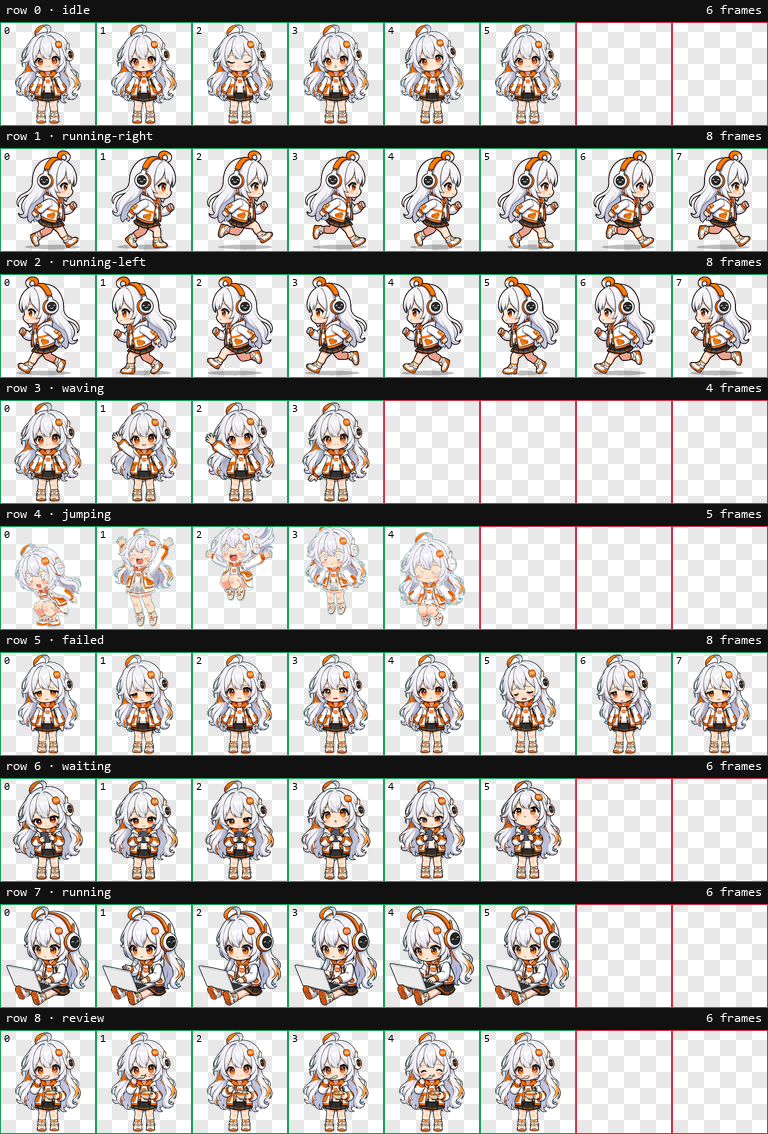
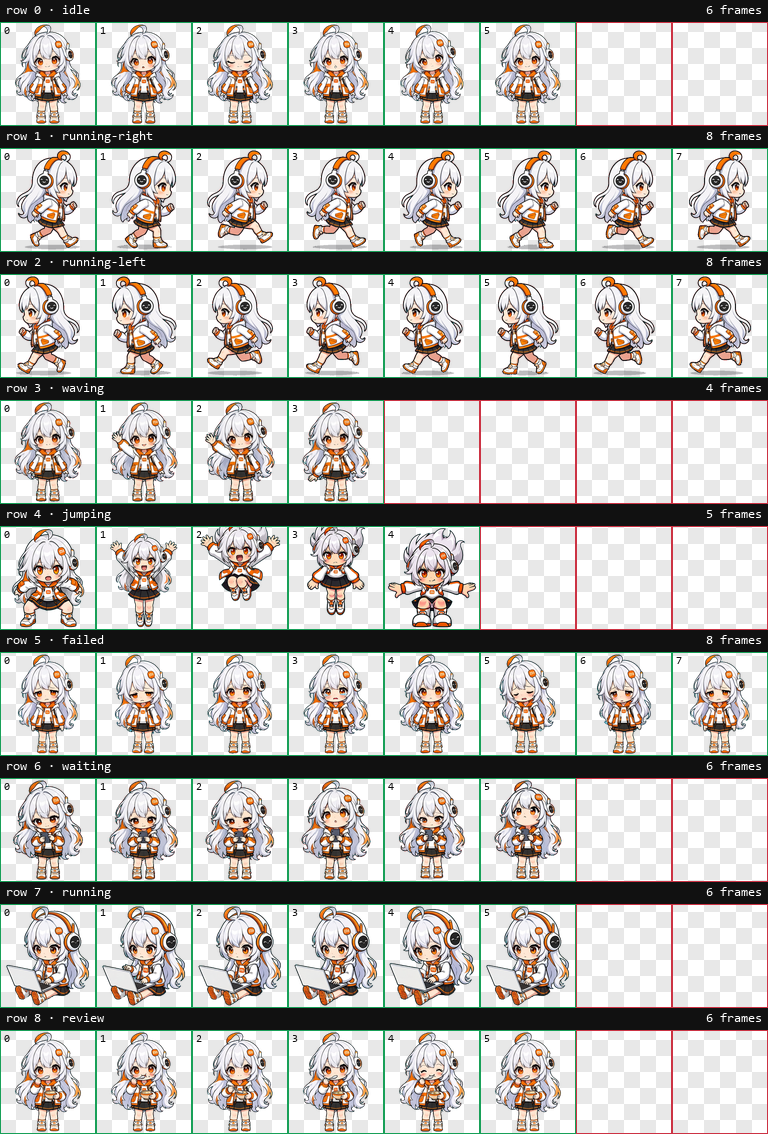
Redraw the jump as a front-facing hop, with tools to keep the atlas style
The old jumping row was five standing poses glued to the ground line; it never read as a jump. The new row is crouch / launch / apex (airborne, knees tucked, soles ~50px clear) / descent / land, all facing the viewer.

Getting it to match the other eight animations needed two extra tools, because the image model drifts from the reference on its own:
- regen_pose.py redraws ONE pose from an existing frame and the five poses are generated as a chain (each frame is edited from the previous one), which is what kept the headphones, the line weight and the palette consistent across the row;
- assemble_row.py keys a pose against the background colour it actually used, applies one shared scale so the standing frames match the atlas (198px tall, soles at y=202) and places each frame on the arc it is told to follow;
- match_style.py measures the atlas's own tone statistics and can thicken line work, match the grey white balance or trim a blue cast - the generated art comes back soft and slightly lavender, which is what made earlier attempts look washed out next to the older rows.

Also fixes the missing 'import os' that made all four generator scripts unrunnable. Version 1.0.5.

Changed region(s): [[0.375, 0.463, 0.625, 0.5556], [0.125, 0.463, 0.375, 0.5556], [0.0, 0.463, 0.125, 0.5556]]

diff --git a/generator/match_style.py b/generator/match_style.py
@@ -1,0 +1,277 @@
+#!/usr/bin/env python3
+"""Bring generated frames back onto the atlas's art style (line weight, tone, colour).
+
+Model output comes back as soft, gradient-shaded art with almost no line work: measured
+against the rows already in the atlas it carries ~1% dark pixels where they carry ~20%, and
+its average brightness is ~40 higher. Dropped straight into the atlas it reads as washed
+out next to the rest of the animations, even when the pose and the size are right.
+
+This restores the missing parts numerically, so it can be tuned against the atlas instead of
+hoping the next generation behaves:
+
+  * a dark outline is drawn along the silhouette (outer stroke plus a thin inner band),
+  * a gentle S-curve puts contrast back into the flats,
+  * saturation is nudged towards the reference row.
+
+usage:
+    python match_style.py --row row.png --out row-styled.png --reference ../../assets/spritesheet.webp
+"""
+
+from __future__ import annotations
+
+import argparse
+import json
+from pathlib import Path
+
+import numpy as np
+from PIL import Image
+
+CELL_W, CELL_H = 192, 208
+OPAQUE = 200            # pixels this opaque count as "the drawing" when measuring tone
+
+
+def tone_stats(frames: np.ndarray) -> dict:
+    a = frames[..., 3] >= OPAQUE
+    rgb = frames[..., :3][a].astype(np.float64)
+    if not len(rgb):
+        return {}
+    L = rgb.mean(1)
+    mx, mn = rgb.max(1), rgb.min(1)
+    sat = np.where(mx > 0, (mx - mn) / np.maximum(mx, 1), 0)
+    return {"dark_pct": float((L < 80).mean() * 100),
+            "luma": float(L.mean()),
+            "contrast": float(np.percentile(L, 95) - np.percentile(L, 5)),
+            "sat": float(sat.mean())}
+
+
+def reference_frames(atlas_path: Path, rows: list[int], cols: int = 6) -> np.ndarray:
+    sheet = np.asarray(Image.open(atlas_path).convert("RGBA"))
+    parts = [sheet[r * CELL_H:(r + 1) * CELL_H, :cols * CELL_W] for r in rows]
+    return np.concatenate(parts, axis=1)
+
+
+def outline_colour(frames: np.ndarray) -> np.ndarray:
+    """The colour the atlas uses for its line work."""
+    a = frames[..., 3] >= OPAQUE
+    rgb = frames[..., :3][a].astype(np.float64)
+    L = rgb.mean(1)
+    dark = rgb[L < np.percentile(L, 12)]
+    return np.median(dark, axis=0)
+
+
+def trim_blue_cast(cell: np.ndarray, excess: float = 3.0, luma_min: float = 110.0,
+                   sat_max: float = 0.35) -> np.ndarray:
+    """Cut the blue (lavender) excess out of the light areas, without touching warm pixels.
+
+    Only pixels whose blue channel actually exceeds their red are pulled down, so the hair
+    loses its purple cast while the skin - which is warm, blue below red - cannot be affected.
+    That is the difference from a blanket desaturation, which also drains the faces.
+    """
+    out = cell.astype(np.float32).copy()
+    rgb, alpha = out[..., :3], out[..., 3]
+    L = rgb.mean(2)
+    sat = (rgb.max(2) - rgb.min(2)) / np.maximum(rgb.max(2), 1)
+    mask = (alpha >= 200) & (L >= luma_min) & (sat < sat_max) & ((rgb[..., 2] - rgb[..., 0]) > excess)
+    if not mask.any():
+        return np.clip(out, 0, 255).astype(np.uint8)
+    rgb[mask, 2] = rgb[mask, 0] + excess
+    rgb[mask, 1] = np.minimum(rgb[mask, 1], rgb[mask, 2])
+    return np.clip(out, 0, 255).astype(np.uint8)
+
+
+def neutralise_greys(cell: np.ndarray, strength: float = 0.7, luma_min: float = 120.0,
+                     luma_max: float = 250.0, sat_max: float = 0.30) -> np.ndarray:
+    """Strip the hue out of the hair and every other near-white area.
+
+    The hair comes back with a blue-lavender cast in its shading, which reads as purple next
+    to the older rows. Rather than chasing the tint with channel gains, this pulls the light,
+    low-saturation pixels towards their own luminance: the hair becomes neutral white/grey
+    and the saturated colours (the orange trim, the black skirt) are untouched.
+    """
+    out = cell.astype(np.float32).copy()
+    rgb, alpha = out[..., :3], out[..., 3]
+    L = rgb.mean(2)
+    sat = (rgb.max(2) - rgb.min(2)) / np.maximum(rgb.max(2), 1)
+    # only cool, near-white pixels: the skin is light but warm (red well above blue), and
+    # desaturating it turns every face grey, which is exactly what happened once already
+    warm = (rgb[..., 0] - rgb[..., 2]) > 12.0
+    mask = (alpha >= 200) & (L >= luma_min) & (L <= luma_max) & (sat < sat_max) & ~warm
+    if not mask.any():
+        return np.clip(out, 0, 255).astype(np.uint8)
+    lum = L[mask][:, None]
+    rgb[mask] = rgb[mask] * (1.0 - strength) + lum * strength
+    return np.clip(out, 0, 255).astype(np.uint8)
+
+
+def match_white_balance(cell: np.ndarray, target: np.ndarray, lo: float = 130.0,
+                       hi: float = 235.0, sat_max: float = 0.25,
+                       gain_range: tuple[float, float] = (0.85, 1.15)) -> np.ndarray:
+    """Shift the whole frame so its greys sit where the atlas's greys sit.
+
+    Correcting only the brightest pixels is not enough: the hair's shaded mid-tones are the
+    big purple-looking area, and they come back noticeably blue-heavy (blue is 7-11 above
+    red where the atlas rows sit between -2 and +8). A single per-channel gain derived from
+    the grey pixels moves the whole frame - flats, shading and line work - onto the same
+    white point, which keeps the palette consistent instead of introducing a second tint.
+    """
+    out = cell.astype(np.float32).copy()
+    rgb, alpha = out[..., :3], out[..., 3]
+    L = rgb.mean(2)
+    sat = (rgb.max(2) - rgb.min(2)) / np.maximum(rgb.max(2), 1)
+    grey = (alpha >= 200) & (L >= lo) & (L <= hi) & (sat < sat_max)
+    if grey.sum() < 200:
+        return np.clip(out, 0, 255).astype(np.uint8)
+    have = rgb[grey].mean(0)
+    gain = np.clip(target / np.maximum(have, 1.0), gain_range[0], gain_range[1])
+    out[..., :3] = rgb * gain[None, None, :]
+    return np.clip(out, 0, 255).astype(np.uint8)
+
+
+def neutralize_whites(cell: np.ndarray, blue_offset: float = 3.5,
+                      green_offset: float = -1.0, luma_min: float = 195.0,
+                      sat_max: float = 0.12) -> np.ndarray:
+    """Pull the tint of the white areas (hair, jacket, shoes) onto the atlas's white balance.
+
+    The reference rows are very slightly cool - their white areas sit about +3.5 blue and
+    -1 green relative to red. Generated frames drift a few units past that towards magenta
+    (green sits 4-5 below red in places), which reads as purple hair next to the rest of
+    the atlas. Only bright, low-saturation pixels are touched, so the orange and the black
+    skirt are left alone.
+    """
+    out = cell.astype(np.float32).copy()
+    rgb = out[..., :3]
+    alpha = out[..., 3]
+    L = rgb.mean(2)
+    sat = (rgb.max(2) - rgb.min(2)) / np.maximum(rgb.max(2), 1)
+    mask = (alpha >= 200) & (L > luma_min) & (sat < sat_max)
+    if not mask.any():
+        return np.clip(out, 0, 255).astype(np.uint8)
+    mean = L[mask]
+    rgb[mask, 0] = mean - (blue_offset + green_offset) / 3.0
+    rgb[mask, 1] = mean + (2.0 * blue_offset - green_offset) / 3.0 - blue_offset + green_offset
+    rgb[mask, 2] = mean + (2.0 * blue_offset - green_offset) / 3.0
+    return np.clip(out, 0, 255).astype(np.uint8)
+
+
+def dilate(mask: np.ndarray, radius: int) -> np.ndarray:
+    out = mask.astype(np.float32).copy()
+    for _ in range(radius):
+        pad = np.pad(out, 1, mode="edge")
+        out = np.maximum.reduce([pad[:-2, 1:-1], pad[2:, 1:-1], pad[1:-1, :-2],
+                                 pad[1:-1, 2:], pad[1:-1, 1:-1]])
+    return out
+
+
+def thicken_lines(cell: np.ndarray, ink: np.ndarray, rounds: int = 1,
+                  dark_below: float = 118.0) -> np.ndarray:
+    """Grow the line work that is already there, instead of drawing a new outline.
+
+    The art comes back with the right line weight at generation size, but halving it to the
+    192px atlas cell averages the thin dark outline away, so the frame reads flat next to
+    the older rows. Dilating the existing dark pixels (and keeping them inside the figure)
+    thickens the line by about a pixel per round without inflating the silhouette.
+    """
+    out = cell.astype(np.float32).copy()
+    alpha = out[..., 3] / 255.0
+    core = alpha > 0.15
+    lum = out[..., :3].mean(2)
+    line = core & (lum < dark_below)
+    grown = line.astype(np.float32)
+    for _ in range(rounds):
+        pad = np.pad(grown, 1, mode="edge")
+        grown = np.maximum.reduce([pad[:-2, 1:-1], pad[2:, 1:-1], pad[1:-1, :-2],
+                                   pad[1:-1, 2:], pad[1:-1, 1:-1]])
+    grown = np.clip(grown, 0, 1) * core
+    out[..., :3] = out[..., :3] * (1 - grown[..., None]) + ink[None, None, :] * grown[..., None]
+    return np.clip(out, 0, 255).astype(np.uint8)
+
+
+def style_frame(cell: np.ndarray, ink: np.ndarray, stroke: int, inner: float,
+                contrast: float, sat_gain: float) -> np.ndarray:
+    alpha = cell[..., 3].astype(np.float32) / 255.0
+    rgb = cell[..., :3].astype(np.float32)
+
+    # 1. tone: S-curve around mid grey, then pull saturation towards the reference
+    x = rgb / 255.0
+    x = np.clip(x + contrast * (x - 0.5) * (1.0 - np.abs(2.0 * x - 1.0)), 0, 1)
+    lum = x.mean(2, keepdims=True)
+    x = np.clip(lum + (x - lum) * sat_gain, 0, 1)
+    rgb = x * 255.0
+
+    # 2. line work: an outer stroke plus a darker inner band, sourced from the alpha so the
+    #    stroke stays anti-aliased instead of turning into hard pixels
+    grown = np.clip(dilate(alpha, stroke), 0, 1)
+    outer = np.clip(grown - alpha, 0, 1)[..., None]
+
+    # inner band: pixels of the drawing that sit close to the silhouette
+    core = (alpha > 0.05).astype(np.float32)
+    eroded = core.copy()
+    for _ in range(int(round(inner * 3))):
+        pad = np.pad(eroded, 1, mode="edge")
+        eroded = np.minimum.reduce([pad[:-2, 1:-1], pad[2:, 1:-1], pad[1:-1, :-2],
+                                    pad[1:-1, 2:], pad[1:-1, 1:-1]])
+    inner_mask = np.clip(core - eroded, 0, 1)      # the outer ring of the drawing
+
+    ink_rgb = ink.astype(np.float32)
+    # paint the outer stroke
+    rgb = rgb * (1.0 - outer) + ink_rgb[None, None, :] * outer
+    out_alpha = np.maximum(alpha, grown * 0.96)
+    # darken the thin inner band so the line reads at this size
+    rgb = rgb * (1.0 - inner_mask[..., None] * 0.85) + ink_rgb[None, None, :] * (inner_mask[..., None] * 0.85)
+
+    return np.dstack([np.clip(rgb, 0, 255), np.clip(out_alpha * 255.0, 0, 255)]).astype(np.uint8)
+
+
+def main() -> None:
+    ap = argparse.ArgumentParser(description=__doc__,
+                                 formatter_class=argparse.RawDescriptionHelpFormatter)
+    ap.add_argument("--row", required=True, help="assembled row strip to restyle")
+    ap.add_argument("--out", required=True)
+    ap.add_argument("--reference", required=True, help="atlas to take the style from")
+    ap.add_argument("--rows", default="0,1,6", help="atlas rows to measure the style from")
+    ap.add_argument("--stroke", type=int, default=2, help="outer stroke width in px")
+    ap.add_argument("--inner", type=float, default=0.9, help="inner band strength (0-1)")
+    ap.add_argument("--contrast", type=float, default=0.35)
+    ap.add_argument("--sat", type=float, default=1.15, help="saturation gain")
+    ap.add_argument("--report", default=None, help="write the measured stats to this json")
+    ap.add_argument("--mode", choices=("stroke", "thicken", "whitebal", "greybal", "neutralgrey", "deblue"), default="stroke",
+                    help="stroke: draw a new outer outline; thicken: grow the existing line work")
+    ap.add_argument("--thicken", type=int, default=1, help="rounds of line thickening")
+    a = ap.parse_args()
+
+    ref = reference_frames(Path(a.reference).expanduser().resolve(),
+                           [int(r) for r in a.rows.split(",")])
+    ink = outline_colour(ref)
+    refL = ref[..., :3].astype(np.float32).mean(2)
+    refsat = ((ref[..., :3].astype(np.float32).max(2) - ref[..., :3].astype(np.float32).min(2))
+              / np.maximum(ref[..., :3].astype(np.float32).max(2), 1))
+    refgrey = (ref[..., 3] >= 200) & (refL >= 130) & (refL <= 235) & (refsat < 0.25)
+    grey_target = ref[..., :3][refgrey].astype(np.float32).mean(0)
+    row = np.asarray(Image.open(a.row).convert("RGBA"))
+    styled = np.zeros_like(row)
+    for x in range(0, row.shape[1], CELL_W):
+        cell = row[:, x:x + CELL_W]
+        if a.mode == "deblue":
+            styled[:, x:x + CELL_W] = trim_blue_cast(cell)
+        elif a.mode == "neutralgrey":
+            styled[:, x:x + CELL_W] = neutralise_greys(cell)
+        elif a.mode == "greybal":
+            styled[:, x:x + CELL_W] = match_white_balance(cell, grey_target)
+        elif a.mode == "whitebal":
+            styled[:, x:x + CELL_W] = neutralize_whites(cell)
+        elif a.mode == "thicken":
+            styled[:, x:x + CELL_W] = thicken_lines(cell, ink, a.thicken)
+        else:
+            styled[:, x:x + CELL_W] = style_frame(cell, ink, a.stroke, a.inner,
+                                                  a.contrast, a.sat)
+    Image.fromarray(styled, "RGBA").save(Path(a.out).expanduser().resolve())
+
+    report = {"ink": [float(v) for v in ink], "reference": tone_stats(ref),
+              "styled": tone_stats(styled), "original": tone_stats(row)}
+    if a.report:
+        Path(a.report).write_text(json.dumps(report, indent=2), encoding="utf-8")
+    print(json.dumps(report, indent=2))
+
+
+if __name__ == "__main__":
+    main()

diff --git a/generator/regen_row.py b/generator/regen_row.py
@@ -38,6 +38,15 @@ Keep identical in EVERY frame: the same body position, the same scale, the same 
 Absolutely no ground shadow, no contact shadow, no ground line, no ellipse or mark under the feet. No scenery, no text, no speed lines, no dust, no glow, no detached effects; keep cyan out of the character.
 Style: clean cel-shaded chibi anime mascot, crisp outlines, flat bright colors.
 
+COLOUR LOCK - these exact colours, in every frame:
+- her eyes are LARGE and BRIGHT ORANGE (the same orange as the trim on her jacket) with black pupils - never brown, never yellow, never a different shape;
+- her hair is PURE WHITE with a small ORANGE ahoge curl on top;
+- her jacket is WHITE with ORANGE trim and a small orange 'mi' logo on the chest;
+- her skirt is a PURE BLACK pleated skirt with a thin ORANGE stripe along the hem - never grey, never brown, never a different colour;
+- her sneakers are white with ORANGE soles;
+- her headphones are WHITE with an orange headband, an orange antenna and ONE black smiling face on the earcup;
+- thick dark outlines around every shape, and flat two-tone cel shading - no soft gradients, no grey wash, no glossy highlights.
+
 SIZE AND STYLE LOCK - she must be the SAME SIZE AND SHAPE as the reference character in every frame:
 - Her body height is about 95% of the slot height: the tip of her ahoge sits near the top edge and the soles of her shoes sit on the bottom edge of the slot, exactly like the reference.
 - The SAME head size, the SAME body width, the SAME arm and leg thickness, the SAME face proportions and the SAME flat cel shading with the same thin dark outline as the reference.
@@ -85,6 +94,8 @@ DETAIL LOCK - all of these must be IDENTICAL in every one of the six frames and 
 - the same orange antenna and headband arcing up over her head, and the same orange 'mi' logo hairclip, in the same place every frame;
 - the same face and the same eyes in the same style (big flat orange eyes, same size and position on the head), the same flat cel shading and the same thin dark outline;
 - the same white-and-orange jacket with its orange trim (never a hoodie, never with the hood raised), the same black pleated skirt with orange trim, the same white sneakers with orange soles.
+
+VIEW LOCK: she faces the VIEWER (front view) in every single frame - the same camera angle as the reference image. Never a side view, never a three-quarter turn, never turned away: her chest, both eyes and the front of her skirt stay towards the camera in all six frames, including the airborne frame.
 
 SIZE LOCK: her body is exactly the same size in all six frames. In the two standing frames she fills about 95% of the slot height, with the soles of her shoes on the bottom edge of the slot and the tip of her ahoge near the top edge. She jumps by tucking her legs and stretching, so she never leaves the slot.
 
@@ -168,7 +179,13 @@ def generate(prompt: str, images: list[Path], size: str, out: Path) -> Path:
 
 
 def main() -> None:
-    state = sys.argv[1]
+    import argparse
+    ap = argparse.ArgumentParser(description="regenerate one animation row")
+    ap.add_argument("state")
+    ap.add_argument("--ref", action="append", default=[],
+                    help="extra reference image (e.g. the character sheet), repeatable")
+    a = ap.parse_args()
+    state = a.state
     if state not in ROWS:
         raise SystemExit(f"unknown state {state!r}; known: {', '.join(ROWS)}")
     cols, rows, count, frames, prop_rules = ROWS[state]
@@ -176,7 +193,13 @@ def main() -> None:
     canonical = RUN / "references" / "canonical-base.png"
     img_w, img_h = SLOT_W * cols, SLOT_H * rows
 
-    prompt = f"""Using the second attached image as the EXACT character identity reference ({IDENTITY}), draw ONE single image containing exactly {count} full-body frames of the SAME character, arranged in a {cols}x{rows} grid.
+    extra = [Path(r).expanduser().resolve() for r in a.ref]
+    refs = [canonical] + extra
+    sheet_note = ("\nThe last attached image is the official character sheet: take her COLOURS and her "
+                  "design from it exactly (white hair, ORANGE eyes, white-and-orange jacket, BLACK pleated "
+                  "skirt with orange trim, white sneakers with orange soles, white headphones with an orange "
+                  "headband)." if extra else "")
+    prompt = f"""Using the second attached image as the EXACT character identity reference ({IDENTITY}), draw ONE single image containing exactly {count} full-body frames of the SAME character, arranged in a {cols}x{rows} grid.{sheet_note}
 
 Grid order: read left to right, top row first.
 The first attached image is a layout guide: follow the slot positions, but DO NOT draw the guide's boxes, lines or background.
@@ -190,7 +213,7 @@ The first attached image is a layout guide: follow the slot positions, but DO NO
     guide = build_guide(cols, rows, RUN / "references" / "layout-guides" / f"{state}-{cols}x{rows}.png")
     raw = RUN / "tmp" / f"{state}-grid-raw.png"
     print(f"generating {state} as a {cols}x{rows} grid ({count} frames) ...", flush=True)
-    generate(prompt, [guide, canonical], f"{img_w}*{img_h}", raw)
+    generate(prompt, [guide] + refs, f"{img_w}*{img_h}", raw)
 
     img = Image.open(raw).convert("RGB")
     print("raw returned:", img.size)

diff --git a/generator/regen_pose.py b/generator/regen_pose.py
@@ -35,7 +35,9 @@ KEEP = """This is the character reference. Keep her EXACTLY as she is and change
 - the SAME art style: the same clean cel shading with flat bright colours, the same thin dark outline, the same face proportions - no extra gradients, no glossy highlights, no extra hair strands, no extra fingers;
 - the SAME chibi proportions: she is a CHIBI mascot - her head is huge (about as wide as her shoulders and roughly 45% of her total height), her torso is SHORT, her arms and legs are SHORT and THICK with big shoes and mitten-like hands. Never draw her taller, slimmer, longer-limbed or more realistic; keep the head-to-body ratio exactly as in the reference;
 - the SAME outfit: the same white-and-orange jacket with its small orange 'mi' logo (never a raised hood), the same black pleated skirt with orange trim, the same white sneakers with orange soles, the same big white headphones with the smiling black face on the earcup;
-- the SAME camera angle: full body, front view, feet towards the bottom of the image;
+- the SAME camera angle: full body, FRONT view facing the viewer exactly like the reference - never a side view, never a three-quarter turn, never turned away; her chest, both eyes and the front of her skirt always face the camera; feet towards the bottom of the image;
+- the SAME colours, exactly: LARGE BRIGHT ORANGE eyes with black pupils, PURE WHITE hair with a small ORANGE ahoge, a WHITE jacket with ORANGE trim and the small orange 'mi' logo, a PURE BLACK pleated skirt with a thin ORANGE stripe along the hem (never grey, never brown), white sneakers with ORANGE soles, WHITE headphones with an orange headband and ONE black smiling face on the earcup;
+- the SAME line work: thick dark outlines around every shape and flat two-tone cel shading - no soft gradients, no grey wash, no glossy highlights;
 - the background stays """ + CHROMA + """ filling everything around her, and there is NO shadow, NO ground line, NO ellipse and no scenery of any kind."""
 
 
